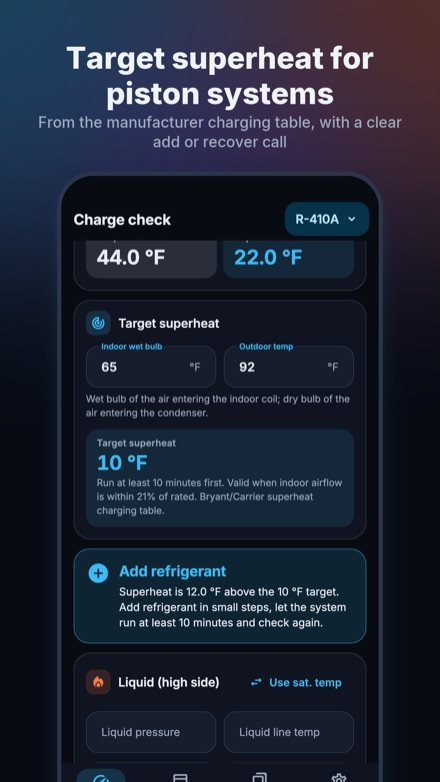
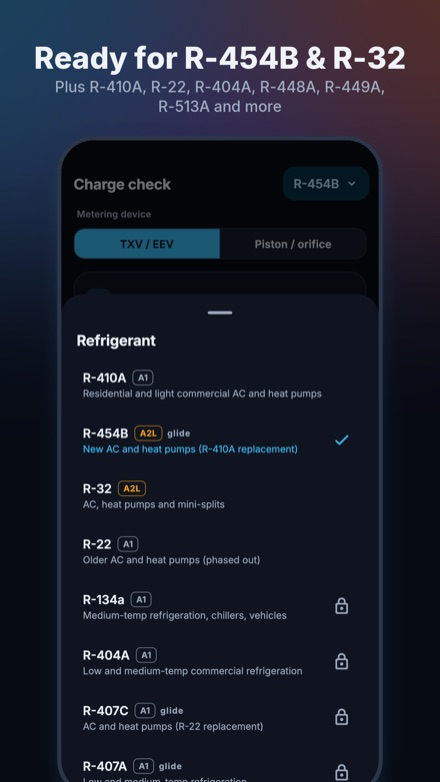
IndexNow key file and submit script

diff --git a/indexnow.py b/indexnow.py
@@ -1,0 +1,18 @@
+#!/usr/bin/env python3
+"""Tells IndexNow search engines (Bing, Yandex, Seznam, Naver) about every page in docs/sitemap.xml.
+Run after a push once GitHub Pages has published it: python3 indexnow.py"""
+import json
+import re
+import urllib.request
+from pathlib import Path
+
+HERE = Path(__file__).resolve().parent
+cfg = json.loads((HERE / "config.json").read_text())
+base = cfg["base_url"].rstrip("/")
+key = cfg["indexnow_key"]
+urls = re.findall(r"<loc>([^<]+)</loc>", (HERE / "docs/sitemap.xml").read_text())
+body = json.dumps({"host": base.split("/")[2], "key": key, "keyLocation": f"{base}/{key}.txt", "urlList": urls}).encode()
+req = urllib.request.Request("https://api.indexnow.org/indexnow", data=body,
+                             headers={"Content-Type": "application/json; charset=utf-8"}, method="POST")
+with urllib.request.urlopen(req, timeout=30) as r:
+    print(r.status, f"{len(urls)} URLs submitted")

diff --git a/build.py b/build.py
@@ -839,6 +839,8 @@ def main():
     build_apps()
     (OUT / "404.html").write_text((OUT / "index.html").read_text())
     (OUT / ".nojekyll").write_text("")
+    if CFG.get("indexnow_key"):  # IndexNow (Bing, Yandex): the key file proves the site is ours
+        (OUT / f'{CFG["indexnow_key"]}.txt').write_text(CFG["indexnow_key"])
     (OUT / "robots.txt").write_text(f"User-agent: *\nAllow: /\nSitemap: {BASE}/sitemap.xml\n")
     urls = "".join(f"<url><loc>{u}</loc><lastmod>{TODAY}</lastmod></url>" for u in pages)
     (OUT / "sitemap.xml").write_text(f'<?xml version="1.0" encoding="UTF-8"?><urlset xmlns="http://www.sitemaps.org/schemas/sitemap/0.9">{urls}</urlset>\n')
